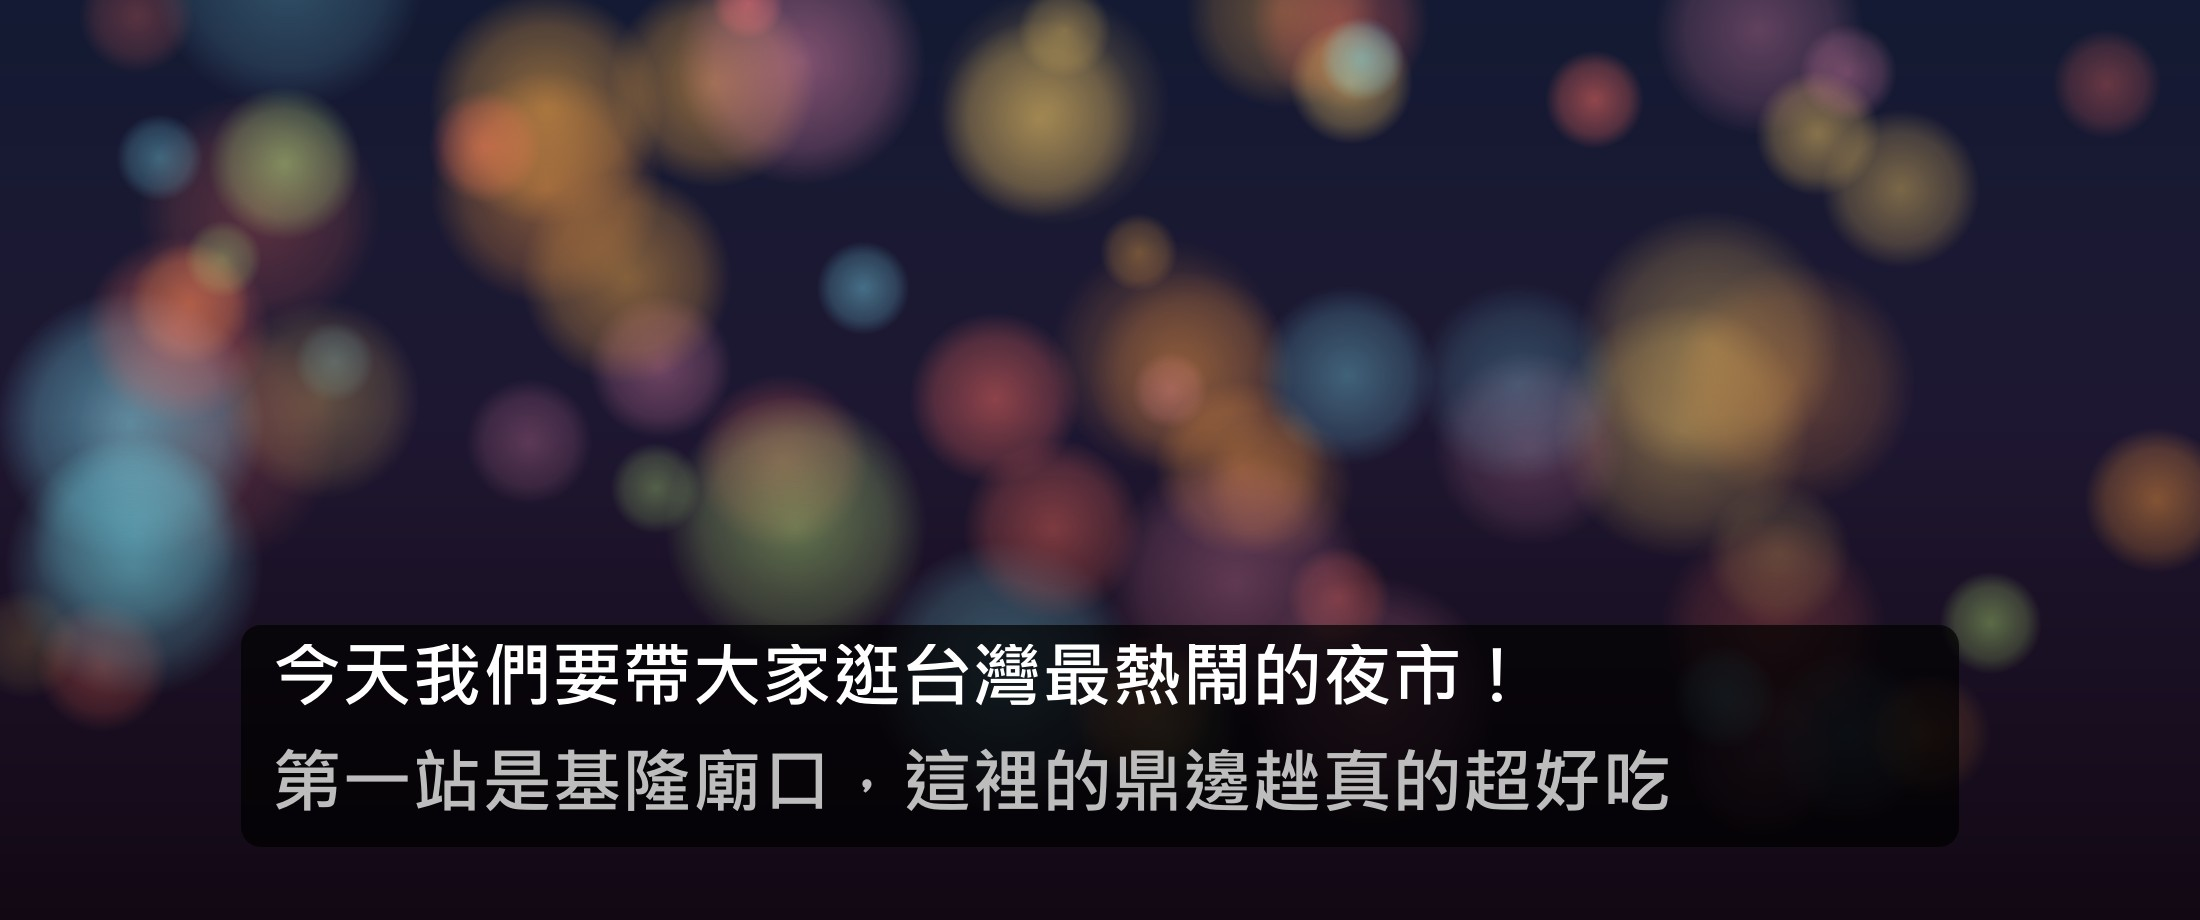
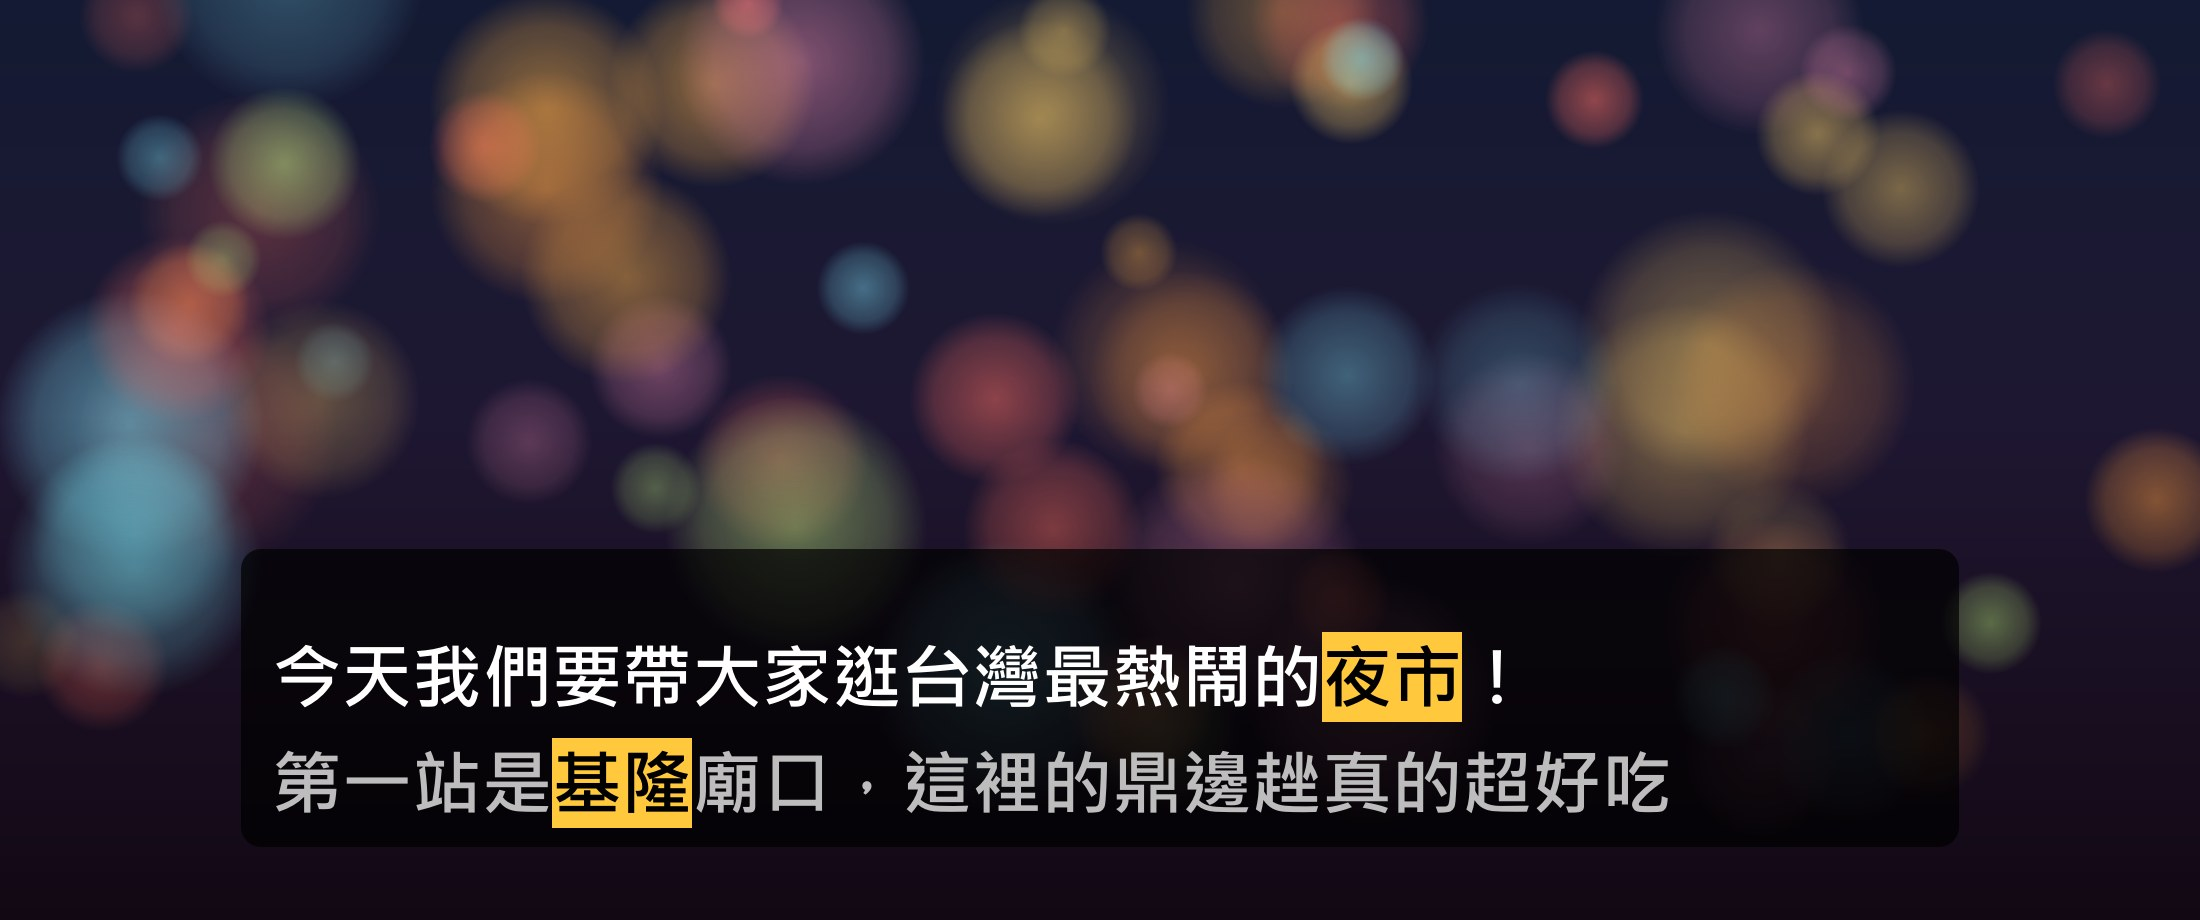
docs: show keyword alerts on the README and website, with new screenshots
Add a Keywords screenshot and retake the other four (live, overlay, models
and History) so they show the current app, with keywords highlighted in the
overlay and History. Rearrange the README's screenshot tables to match.

Website: add a Keyword alerts feature card, a "Stays out of the way" card
for minimize to tray, a "Speaks your language" card for the translated UI,
a Keywords section with its screenshot and a nav link, and a FAQ entry
about being told when someone says your name. Shorten the Traditional or
Simplified card, since the app languages now have their own card. Swap
which sections are tinted so the tint still alternates. Add the Traditional
and Simplified Chinese translations of all the new text.

Set the changelog date for 1.2.0 to 2026-10-24.

Changed region(s): [[0.0927, 0.5783, 0.8964, 0.7913], [0.4018, 0.8217, 0.7727, 0.8826], [0.1236, 0.7913, 0.3709, 0.913]]

diff --git a/site/index.html b/site/index.html
@@ -71,6 +71,9 @@
   <symbol id="i-cloud-off" viewBox="0 0 24 24"><path d="M3.28034 2.21968C2.98745 1.92678 2.51257 1.92677 2.21968 2.21966C1.92678 2.51255 1.92677 2.98743 2.21966 3.28032L6.85339 7.91414C6.47198 8.54894 6.20466 9.26014 6.07981 10.0194C3.79155 10.2313 2 12.1564 2 14.5C2 16.9853 4.01472 19 6.5 19H17.5C17.6415 19 17.7815 18.9935 17.9197 18.9807L20.7194 21.7805C21.0123 22.0734 21.4872 22.0734 21.7801 21.7805C22.073 21.4876 22.073 21.0127 21.7801 20.7198L3.28034 2.21968ZM16.4391 17.5H6.5C4.84315 17.5 3.5 16.1569 3.5 14.5C3.5 12.8431 4.84315 11.5 6.5 11.5H6.75585C7.15641 11.5 7.48627 11.1852 7.50502 10.7851C7.53463 10.1537 7.69446 9.55623 7.95827 9.01904L16.4391 17.5ZM20.5 14.5C20.5 15.2822 20.2007 15.9944 19.7103 16.5285L20.7716 17.5898C21.5331 16.7838 22 15.6964 22 14.5C22 12.1564 20.2085 10.2313 17.9202 10.0194C17.4519 7.17189 14.9798 5 12 5C10.9031 5 9.875 5.29431 8.99031 5.80828L10.1011 6.91911C10.6781 6.65018 11.3215 6.5 12 6.5C14.4132 6.5 16.3832 8.39994 16.495 10.7851C16.5137 11.1852 16.8436 11.5 17.2442 11.5H17.5C19.1569 11.5 20.5 12.8431 20.5 14.5Z"/></symbol>
   <symbol id="i-check" viewBox="0 0 24 24"><path d="M12 2C17.5228 2 22 6.47715 22 12C22 17.5228 17.5228 22 12 22C6.47715 22 2 17.5228 2 12C2 6.47715 6.47715 2 12 2ZM12 3.5C7.30558 3.5 3.5 7.30558 3.5 12C3.5 16.6944 7.30558 20.5 12 20.5C16.6944 20.5 20.5 16.6944 20.5 12C20.5 7.30558 16.6944 3.5 12 3.5ZM10.75 13.4393L15.2197 8.96967C15.5126 8.67678 15.9874 8.67678 16.2803 8.96967C16.5466 9.23594 16.5708 9.6526 16.3529 9.94621L16.2803 10.0303L11.2803 15.0303C11.0141 15.2966 10.5974 15.3208 10.3038 15.1029L10.2197 15.0303L7.71967 12.5303C7.42678 12.2374 7.42678 11.7626 7.71967 11.4697C7.98594 11.2034 8.4026 11.1792 8.69621 11.3971L8.78033 11.4697L10.75 13.4393L15.2197 8.96967L10.75 13.4393Z"/></symbol>
   <symbol id="i-code" viewBox="0 0 24 24"><path d="M15.0461 1.49224C15.1885 1.10338 15.6191 0.903659 16.008 1.04595C16.3967 1.18841 16.5965 1.619 16.4543 2.00786L8.95427 22.5079C8.81191 22.8967 8.38124 23.0963 7.99236 22.9542C7.60349 22.8118 7.40378 22.3812 7.54607 21.9922L15.0461 1.49224ZM6.2072 6.23247C6.4929 5.93284 6.96791 5.92152 7.26775 6.20708C7.5673 6.49276 7.57861 6.9678 7.29314 7.26763L2.78533 12.0001L7.29314 16.7325C7.57857 17.0323 7.56733 17.5074 7.26775 17.793C6.96793 18.0786 6.4929 18.0672 6.2072 17.7676L1.2072 12.5176C0.93134 12.228 0.93134 11.7721 1.2072 11.4825L6.2072 6.23247ZM16.7326 6.20708C17.0325 5.92158 17.5075 5.93279 17.7931 6.23247L22.7931 11.4825C23.0688 11.7721 23.0689 12.228 22.7931 12.5176L17.7931 17.7676C17.5075 18.0673 17.0325 18.0785 16.7326 17.793C16.4329 17.5073 16.4216 17.0323 16.7072 16.7325L21.215 12.0001L16.7072 7.26763C16.4216 6.96776 16.4329 6.49277 16.7326 6.20708Z"/></symbol>
+  <symbol id="i-tag" viewBox="0 0 24 24"><path d="M19.7498 2C20.9925 2 21.9998 3.00736 21.9998 4.25V9.71196C21.9998 10.5738 21.6575 11.4003 21.0482 12.0098L12.5472 20.5129C11.2777 21.7798 9.22195 21.7807 7.95079 20.5143L3.48909 16.0592C2.21862 14.7913 2.21699 12.7334 3.48531 11.4632L11.985 2.95334C12.5946 2.34297 13.4218 2 14.2845 2H19.7498ZM19.7498 3.5H14.2845C13.82 3.5 13.3745 3.68467 13.0463 4.01333L4.53412 12.5358C3.86389 13.2207 3.86898 14.3191 4.54884 14.9977L9.01006 19.4522C9.69493 20.1345 10.8033 20.134 11.487 19.4518L19.9874 10.9492C20.3155 10.6211 20.4998 10.176 20.4998 9.71196V4.25C20.4998 3.83579 20.164 3.5 19.7498 3.5ZM16.9998 5.50218C17.8282 5.50218 18.4998 6.17374 18.4998 7.00216C18.4998 7.83057 17.8282 8.50213 16.9998 8.50213C16.1714 8.50213 15.4998 7.83057 15.4998 7.00216C15.4998 6.17374 16.1714 5.50218 16.9998 5.50218Z"/></symbol>
+  <symbol id="i-minimize" viewBox="0 0 24 24"><path d="M10.25 13C10.6642 13 11 13.3358 11 13.75V21.25C11 21.6642 10.6642 22 10.25 22C9.83579 22 9.5 21.6642 9.5 21.25V15.5605L3.28027 21.7803C2.98738 22.0732 2.51262 22.0732 2.21973 21.7803C1.92683 21.4874 1.92683 21.0126 2.21973 20.7197L8.43945 14.5H2.75C2.33579 14.5 2 14.1642 2 13.75C2 13.3358 2.33579 13 2.75 13H10.25ZM20.7197 2.21973C21.0126 1.92683 21.4874 1.92683 21.7803 2.21973C22.0732 2.51262 22.0732 2.98738 21.7803 3.28027L15.5605 9.5H21.25C21.6642 9.5 22 9.83579 22 10.25C22 10.6642 21.6642 11 21.25 11H13.75C13.3358 11 13 10.6642 13 10.25V2.75C13 2.33579 13.3358 2 13.75 2C14.1642 2 14.5 2.33579 14.5 2.75V8.43945L20.7197 2.21973Z"/></symbol>
+  <symbol id="i-globe" viewBox="0 0 24 24"><path d="M12.0001 1.99805C17.5238 1.99805 22.0016 6.47589 22.0016 11.9996C22.0016 17.5233 17.5238 22.0011 12.0001 22.0011C6.47638 22.0011 1.99854 17.5233 1.99854 11.9996C1.99854 6.47589 6.47638 1.99805 12.0001 1.99805ZM14.939 16.4993H9.06118C9.71322 18.9135 10.8466 20.5011 12.0001 20.5011C13.1536 20.5011 14.2869 18.9135 14.939 16.4993ZM7.5084 16.4999L4.78591 16.4998C5.74425 18.0328 7.1777 19.2384 8.88008 19.9104C8.3578 19.0906 7.92681 18.0643 7.60981 16.8949L7.5084 16.4999ZM19.2143 16.4998L16.4918 16.4999C16.168 17.8337 15.7004 18.9995 15.119 19.9104C16.716 19.2804 18.0757 18.1814 19.0291 16.7833L19.2143 16.4998ZM7.09351 9.99895H3.7359L3.73115 10.0162C3.57906 10.6525 3.49854 11.3166 3.49854 11.9996C3.49854 13.0558 3.69112 14.0669 4.0431 14.9999L7.21626 14.9995C7.07396 14.0504 6.99854 13.0422 6.99854 11.9996C6.99854 11.3156 7.031 10.6464 7.09351 9.99895ZM15.397 9.99901H8.60316C8.53514 10.6393 8.49853 11.309 8.49853 11.9996C8.49853 13.0591 8.58468 14.0694 8.73827 14.9997H15.2619C15.4155 14.0694 15.5016 13.0591 15.5016 11.9996C15.5016 11.309 15.465 10.6393 15.397 9.99901ZM20.2647 9.99811L16.9067 9.99897C16.9692 10.6464 17.0016 11.3156 17.0016 11.9996C17.0016 13.0422 16.9262 14.0504 16.7839 14.9995L19.9571 14.9999C20.309 14.0669 20.5016 13.0558 20.5016 11.9996C20.5016 11.3102 20.4196 10.64 20.2647 9.99811ZM8.88114 4.08875L8.85823 4.09747C6.81092 4.91218 5.1549 6.49949 4.25023 8.49935L7.29835 8.49972C7.61171 6.74693 8.15855 5.221 8.88114 4.08875ZM12.0001 3.49805L11.8844 3.50335C10.619 3.6191 9.39651 5.62107 8.8288 8.4993H15.1714C14.6052 5.62914 13.388 3.63033 12.1264 3.50436L12.0001 3.49805ZM15.1201 4.08881L15.2269 4.2629C15.8961 5.37537 16.4043 6.83525 16.7018 8.49972L19.7499 8.49935C18.8853 6.58795 17.3343 5.05341 15.4113 4.21008L15.1201 4.08881Z"/></symbol>
 </defs>
 </svg>
 
@@ -85,6 +88,7 @@
     <nav class="nav-links" aria-label="Sections">
       <a href="#features">Features</a>
       <a href="#screenshots">Screenshots</a>
+      <a href="#keywords">Keywords</a>
       <a href="#models">Models</a>
       <a href="#privacy">Privacy</a>
       <a href="#faq">FAQ</a>
@@ -176,6 +180,11 @@
           <p>Captions update while someone speaks and settle into a final line when they pause.</p>
         </article>
         <article class="card feature reveal">
+          <span class="icon-tile"><svg class="icon"><use href="#i-tag"/></svg></span>
+          <h3>Keyword alerts</h3>
+          <p>Hear your name, a stock or a topic? It's highlighted, and you get a sound or a notification. Chinese keywords match by sound, typed as 漢字, Zhuyin or Pinyin.</p>
+        </article>
+        <article class="card feature reveal">
           <span class="icon-tile"><svg class="icon"><use href="#i-pip"/></svg></span>
           <h3>Floating overlay</h3>
           <p>An always-on-top caption bar for videos, games and calls. Drag it anywhere, resize it, or let clicks pass through it.</p>
@@ -198,7 +207,7 @@
         <article class="card feature reveal">
           <span class="icon-tile"><svg class="icon"><use href="#i-translate"/></svg></span>
           <h3>Traditional or Simplified</h3>
-          <p>Chinese captions come out in Traditional or Simplified characters, as you prefer. The app speaks English, 繁體中文 and 简体中文 too.</p>
+          <p>Chinese captions come out in Traditional or Simplified characters, as you prefer.</p>
         </article>
         <article class="card feature reveal">
           <span class="icon-tile"><svg class="icon"><use href="#i-history"/></svg></span>
@@ -209,6 +218,16 @@
           <span class="icon-tile"><svg class="icon"><use href="#i-usb"/></svg></span>
           <h3>Install it, or carry it</h3>
           <p>Install it in a click, no admin rights needed. Or take the portable zip: settings, history and models stay in its folder, even on a USB stick.</p>
+        </article>
+        <article class="card feature reveal">
+          <span class="icon-tile"><svg class="icon"><use href="#i-minimize"/></svg></span>
+          <h3>Stays out of the way</h3>
+          <p>Minimize it and it waits in the tray, still captioning, until you need the window again.</p>
+        </article>
+        <article class="card feature reveal">
+          <span class="icon-tile"><svg class="icon"><use href="#i-globe"/></svg></span>
+          <h3>Speaks your language</h3>
+          <p>The app comes in English, 繁體中文 and 简体中文, and follows your Windows language.</p>
         </article>
       </div>
     </div>
@@ -234,7 +253,26 @@
     </div>
   </section>
 
-  <section class="section" id="screenshots">
+  <section class="section" id="keywords">
+    <div class="container split split-reverse">
+      <div class="split-media reveal">
+        <img class="shot" src="img/screenshot-keywords.png" width="2200" height="1440" loading="lazy"
+             alt="The Keywords page with keywords in English, Chinese, Zhuyin and Pinyin">
+      </div>
+      <div class="split-text reveal">
+        <span class="eyebrow">Keyword alerts</span>
+        <h2>Never miss your name</h2>
+        <p>Add the words you care about, and the app tells you the moment someone says one.</p>
+        <ul class="checklist">
+          <li><svg class="icon"><use href="#i-check"/></svg>Highlighted in the live captions, the overlay and History</li>
+          <li><svg class="icon"><use href="#i-check"/></svg>A sound, or a Windows notification while you're in another app</li>
+          <li><svg class="icon"><use href="#i-check"/></svg>Chinese matches by sound, so a misheard 台北 written as 臺北 or 抬北 still counts</li>
+          <li><svg class="icon"><use href="#i-check"/></svg>Type keywords as 漢字, Zhuyin or Pinyin, with optional 模糊音 like zh = z and n = l</li>
+        </ul>
+      </div>
+    </div>
+  </section>
+  <section class="section section-tinted" id="screenshots">
     <div class="container">
       <header class="section-head reveal">
         <h2>Feels right at home on Windows</h2>
@@ -265,7 +303,7 @@
     </div>
   </section>
 
-  <section class="section section-tinted" id="start">
+  <section class="section" id="start">
     <div class="container">
       <header class="section-head reveal">
         <h2>Up and running in a minute</h2>
@@ -300,7 +338,7 @@
     </div>
   </section>
 
-  <section class="section" id="models">
+  <section class="section section-tinted" id="models">
     <div class="container">
       <header class="section-head reveal">
         <h2>Which model should I use?</h2>
@@ -347,7 +385,7 @@
     </div>
   </section>
 
-  <section class="section section-tinted" id="privacy">
+  <section class="section" id="privacy">
     <div class="container split split-reverse">
       <div class="split-text reveal">
         <span class="eyebrow">Privacy</span>
@@ -366,7 +404,7 @@
     </div>
   </section>
 
-  <section class="section" id="faq">
+  <section class="section section-tinted" id="faq">
     <div class="container narrow">
       <header class="section-head reveal">
         <h2>Questions and answers</h2>
@@ -401,6 +439,10 @@
           <p>Nothing. AppLiveCaption is free and open source under the GPL-3.0 license. The speech recognition models are made by their authors and come with their own licenses, shown on the Models page.</p>
         </details>
         <details>
+          <summary>Can it tell me when someone says my name?<svg class="icon chevron"><use href="#i-chevron"/></svg></summary>
+          <p>Yes. Add it on the Keywords page: it's highlighted when it's said, and the app plays a sound or, while you're in another app, shows a Windows notification. Chinese names match by sound too, so a different character that sounds the same still counts.</p>
+        </details>
+        <details>
           <summary>Is it made with AI?<svg class="icon chevron"><use href="#i-chevron"/></svg></summary>
           <p>Yes, it's vibe-coded! I built it with Claude Code, Anthropic's AI coding assistant, running Claude Opus 5.5. Without this amazing tool, I wouldn't have been able to build the app I wanted in such a short time.</p>
         </details>
@@ -408,7 +450,7 @@
     </div>
   </section>
 
-  <section class="section">
+  <section class="section section-tinted">
     <div class="container">
       <div class="cta reveal">
         <img src="icon.svg" alt="" width="64" height="64">

diff --git a/README.md b/README.md
@@ -21,13 +21,17 @@ No cloud and no account: once a model is downloaded, it works without internet.
 
 ## Screenshots
 
-The overlay floats on top of anything, here a night-market vlog in Mandarin:
+The overlay floats on top of anything, here a night-market vlog in Mandarin, with the keywords 夜市 and ㄐㄧ ㄌㄨㄥˊ (基隆) highlighted:
 
-![The floating caption overlay over a video](.asset/screenshot-overlay.jpg)
+![The floating caption overlay over a video, with two keywords highlighted](.asset/screenshot-overlay.jpg)
 
-| 🧠 Models and GPU support | 📜 History |
+| 🏷 Keywords | 🧠 Models and GPU support |
 | --- | --- |
-| ![The Models page, with GPU support installed and a model downloading](.asset/screenshot-models.png) | ![The History page with saved sessions](.asset/screenshot-history.png) |
+| ![The Keywords page with keywords in English, Chinese, Zhuyin and Pinyin](.asset/screenshot-keywords.png) | ![The Models page, with GPU support installed, a model in use and another one downloading](.asset/screenshot-models.png) |
+
+| 📜 History |
+| --- |
+| ![The History page with saved sessions and a highlighted keyword](.asset/screenshot-history.png) |
 
 ## Quick start
 

diff --git a/CHANGELOG.md b/CHANGELOG.md
@@ -3,7 +3,7 @@
 All notable changes to AppLiveCaption are listed here, newest first.
 The format follows [Keep a Changelog](https://keepachangelog.com/en/1.1.0/), and the version numbers follow [Semantic Versioning](https://semver.org/).
 
-## [1.2.0] - Unreleased
+## [1.2.0] - 2026-10-24
 
 ### Added
 
